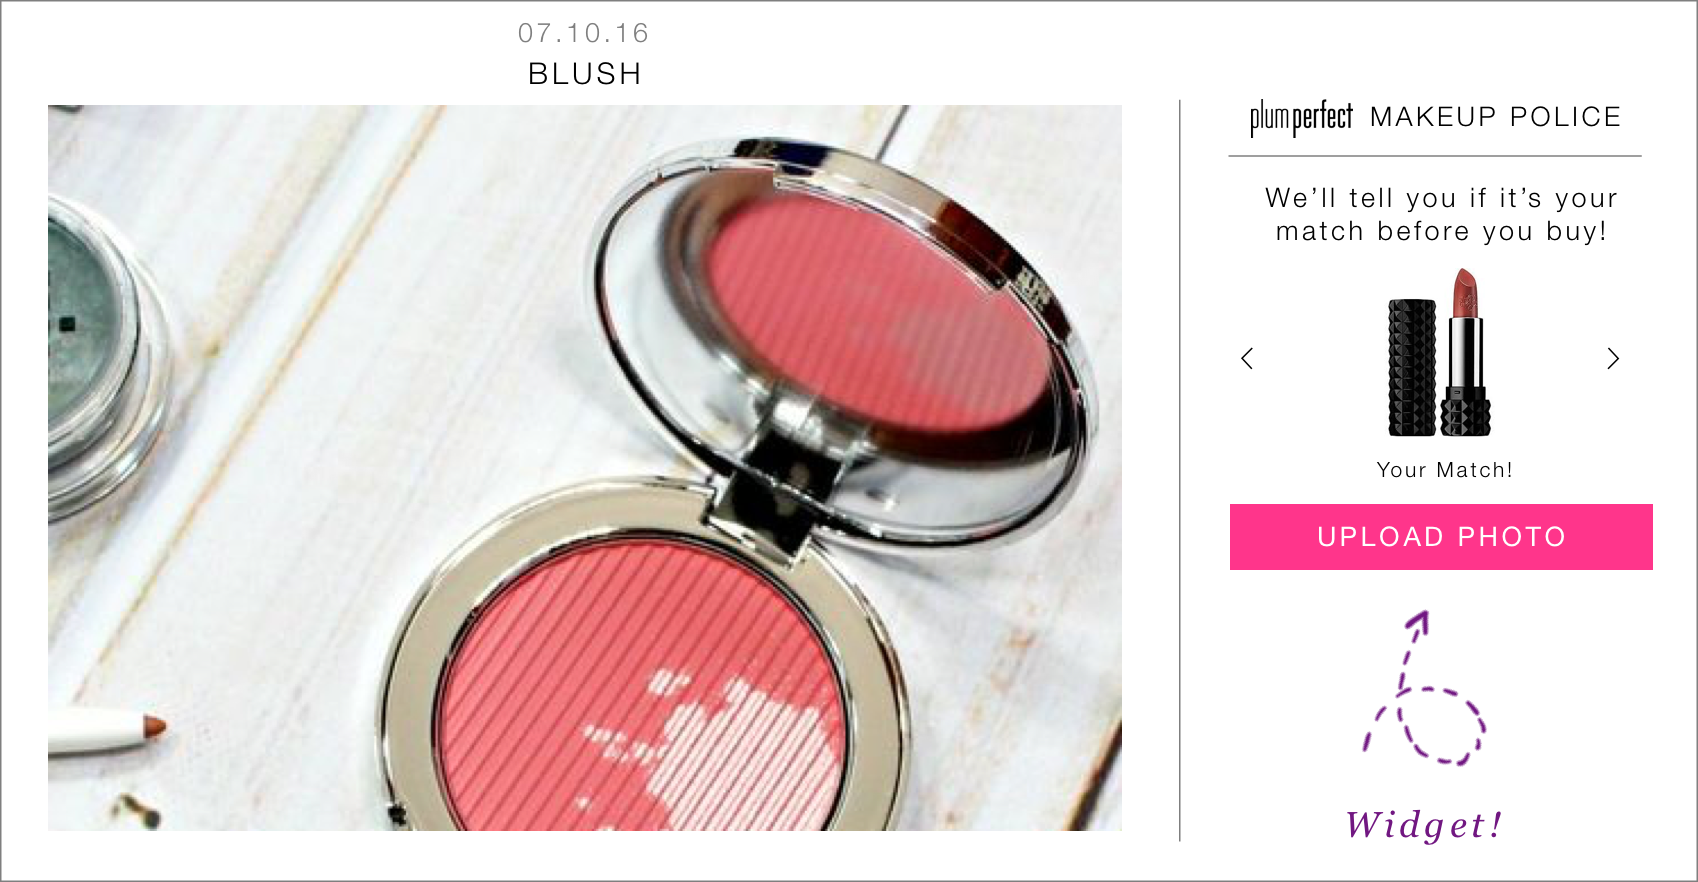
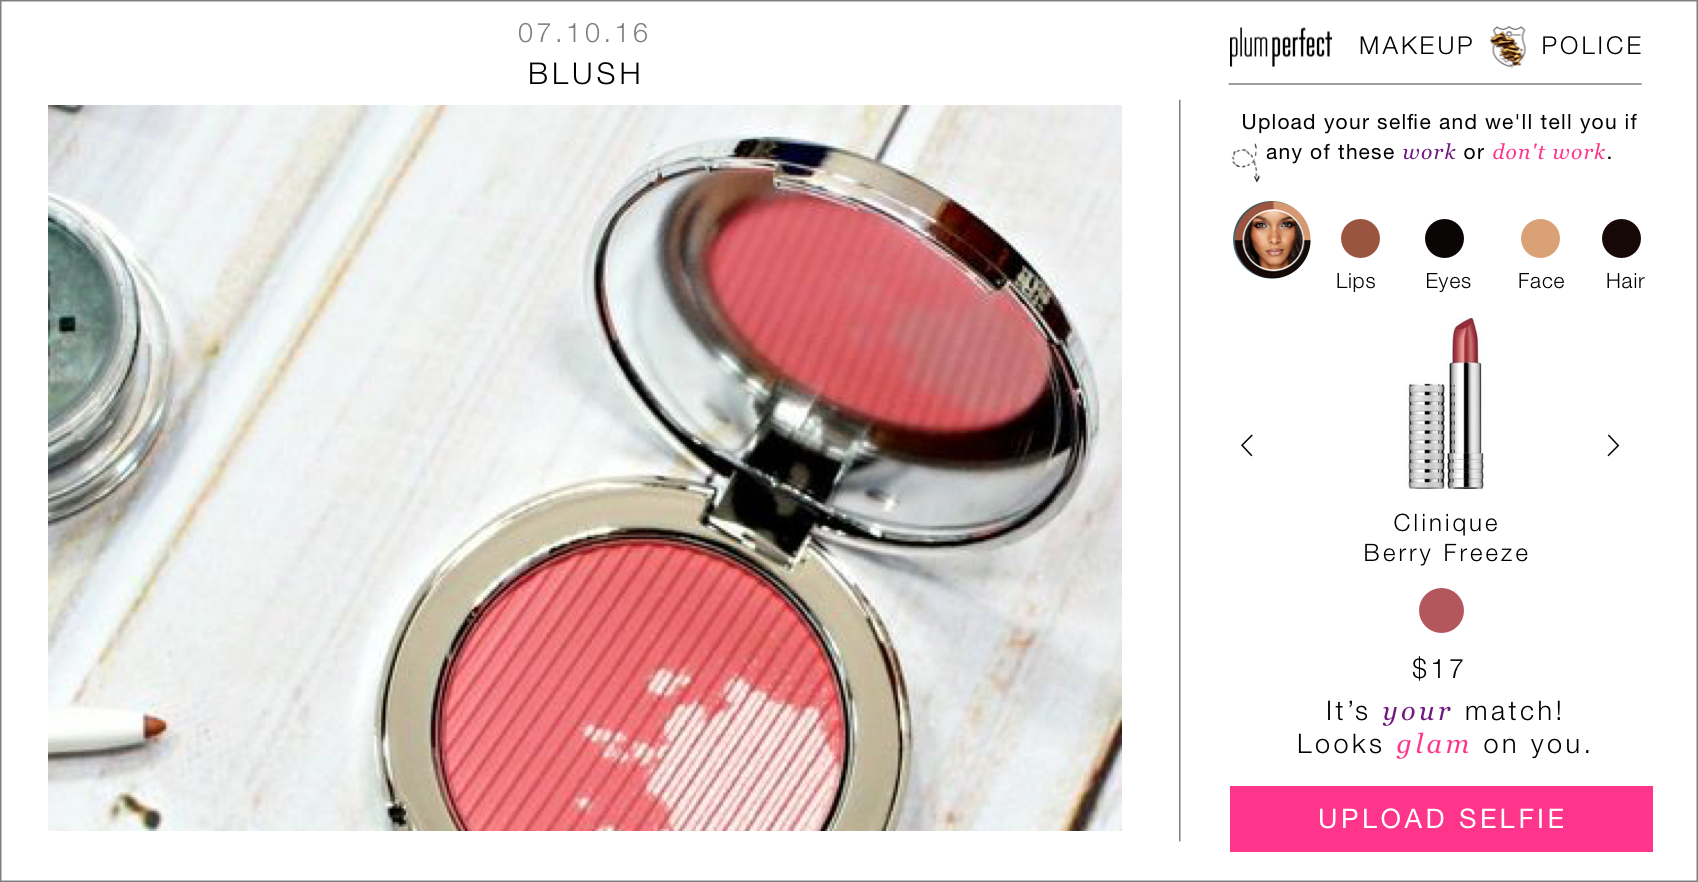
Updates

Changed region(s): [[0.7179, 0.2143, 0.9988, 0.9796], [0.7179, 0.0306, 0.9676, 0.1837]]

diff --git a/Widget/Index.html b/Widget/Index.html
@@ -19,18 +19,20 @@
 
     <!-- Begin page content -->
     <div id="wrap">
-      <div class="col-lg-12 logodiv">
-        <img class="logo" src="img/Logo.png" width="220" height="19">
+      <div class="col-lg-12 col-xs-12 logodiv">
+        <img class="logo" src="img/Logo.png" width="243" height="29">
       </div>
 
-      <div class="col-lg-12 col-xs-12">
-        <p class="matchtext">It's <span class="her">her</span> match, is it <span class="yours">yours?</span> <br>To find out, upload your photo.</p>
+      <div class="col-lg-12 col-xs-12 logodiv2">
+        <!-- <p class="matchtext">Avoid makeup faux pas. We'll tell you if any of these <span class="her">work</span> or <span class="yours">don't work.</span> </p> -->
+        <img class="logo" src="img/Upload.png" width="298" height="53">
       </div>
 
       <div class="row info">
         <div class="col-lg-3 col-xs-4">
           <div class="picture">
           </div>
+          <h1 class="attribute linzie">Linzie</h1>
         </div>
         <div class="col-lg-2 col-xs-2">
           <div class="color1">
@@ -68,19 +70,37 @@
           <div class="item active">
             <a href="#"><img class="image" src="img/Lipstick.png" width="110" height="110"></a>
             <div class="carousel-caption1">
-              <h3>It's your match!</h3>
+              <h3>Brand</h3>
+              <h3>Color Name</h3>
+              <div class="colorname"></div><br>
+              <h3>Price</h3>
+              <br>
+              <h3 class="match">It's not <span class="her">her</span> match!</h3>
+              <h3 class="match">Is it <span class="yours">yours?</span></h3>
             </div>
           </div>
           <div class="item">
             <a href="#"><img class="image" src="img/Lipstick2.png" width="110" height="110"></a>
             <div class="carousel-caption1">
-              <h3>Not your match.</h3>
+              <h3>Brand</h3>
+              <h3>Color Name</h3>
+              <div class="colorname"></div><br>
+              <h3>Price</h3>
+              <br>
+              <h3 class="match">It's <span class="her">her</span> match!</h3>
+              <h3 class="match">Looks <span class="yours">glam</span> on her.</h3>
             </div>
           </div>
           <div class="item">
             <a href="#"><img class="image" src="img/Lipstick3.png" width="110" height="110"></a>
             <div class="carousel-caption1">
-              <h3>It's your match!</h3>
+              <h3>Brand</h3>
+              <h3>Color Name</h3>
+              <div class="colorname"></div><br>
+              <h3>Price</h3>
+              <br>
+              <h3 class="match">It's <span class="her">her</span> match!</h3>
+              <h3 class="match">Looks <span class="yours">glam</span> on her.</h3>
             </div>
           </div>
         </div> <!-- Inner-->
@@ -96,7 +116,7 @@
       </div> <!-- Main Carousel-->
 
             <div class="col-lg-12 col-xs-12 buttondiv">
-              <a href="Upload.html"><button class="btn1"><h1 class="uploadbtn">UPLOAD PHOTO</h1</button></a>
+              <a href="Upload.html"><button class="btn1"><h1 class="uploadbtn">UPLOAD SELFIE</h1</button></a>
             </div>
     </div> <!-- End Wrap -->
 

diff --git a/Widget/Matches.html b/Widget/Matches.html
@@ -20,7 +20,7 @@
     <!-- Begin page content -->
     <div id="wrap">
       <div class="col-lg-12 logodiv">
-        <img class="logo" src="img/Logo.png" width="220" height="19">
+        <img class="logo" src="img/Logo.png" width="243" height="29">
       </div>
 
       <div class="col-lg-12 col-xs-12">
@@ -64,24 +64,39 @@
           <div class="item active">
             <a href="#"><img class="image" src="img/Lipstick.png" width="110" height="110"></a>
             <div class="carousel-caption">
-              <h3>It's your match!</h3>
-              <h3>Looks glam on you.</h3>
+              <h3>Brand</h3>
+              <h3>Color Name</h3>
+              <div class="colorname"></div><br>
+              <h3>Price</h3>
+              <br>
+              <h3 class="match">It's <span class="her">your</span> match!</h3>
+              <h3 class="match">Looks <span class="yours">glam</span> on you.</h3>
               <a href="#"><button class="btn2"><h1 class="uploadbtn">BUY NOW</h1</button></a>
             </div>
           </div>
           <div class="item">
             <a href="#"><img class="image" src="img/Lipstick2.png" width="110" height="110"></a>
             <div class="carousel-caption">
-              <h3>Not your match.</h3>
-              <h3>Keep looking!</h3>
+              <h3>Brand</h3>
+              <h3>Color Name</h3>
+              <div class="colorname"></div><br>
+              <h3>Price</h3>
+              <br>
+              <h3 class="match">It's <span class="her">your</span> match!</h3>
+              <h3 class="match">Looks <span class="yours">glam</span> on you.</h3>
               <a href="#"><button class="btn2"><h1 class="uploadbtn">BUY NOW</h1</button></a>
             </div>
           </div>
           <div class="item">
             <a href="#"><img class="image" src="img/Lipstick3.png" width="110" height="110"></a>
             <div class="carousel-caption">
-              <h3>It's your match!</h3>
-              <h3>Looks glam on you.</h3>
+              <h3>Brand</h3>
+              <h3>Color Name</h3>
+              <div class="colorname"></div><br>
+              <h3>Price</h3>
+              <br>
+              <h3 class="match">It's <span class="her">not your</span> match!</h3>
+              <h3 class="match">Keep Looking!</h3>
               <a href="#"><button class="btn2"><h1 class="uploadbtn">BUY NOW</h1</button></a>
             </div>
           </div>

diff --git a/Widget/stylesheets/index.css b/Widget/stylesheets/index.css
@@ -11,7 +11,7 @@ body {
 
 #wrap {
   width: 300px;
-  height: 410px;
+  height: 530px;
   background-color: white;
   border: solid black 1px;
   margin: auto;
@@ -19,9 +19,15 @@ body {
 
 .logodiv {
   text-align: center;
-  padding: 10px 0px 5px 0px;
+  padding: 5px 0px 0px 0px;
   border-bottom: solid black 1px;
 }
+
+.logodiv2 {
+  text-align: center;
+  padding: 10px 0px 5px 0px;
+}
+
 
 .header {
   font-family: 'Helvetica Neue';
@@ -41,6 +47,12 @@ body {
 
 .buttondiv {
   text-align: center;
+  margin-top: 10px;
+}
+
+.linzie {
+  text-align: center;
+  padding-left: 10px;
 }
 
 .btn1 {
@@ -88,7 +100,7 @@ body {
   font-size: 15px;
   text-shadow: none;
   color: black;
-  visibility: hidden;
+  text-align: center;
 }
 
 .carousel-inner {
@@ -153,9 +165,9 @@ body {
 .matchtext {
   font-family: 'Helvetica Neue';
   font-weight: 300;
-  font-size: 18px;
+  font-size: 15px;
   text-align: center;
-  margin: 20px auto 25px auto;
+  margin: 20px auto 15px auto;
   line-height: 20px;
 }
 
@@ -171,6 +183,13 @@ body {
   color: #FF358B;
 }
 
+.colorname {
+  height: 20px;
+  width: 20px;
+  border-radius: 10px;
+  background-color: black;
+  margin: 5px auto 0px auto;
+}
 
 
 /*UPLOAD*//*UPLOAD*//*UPLOAD*//*UPLOAD*//*UPLOAD*//*UPLOAD*//*UPLOAD*//*UPLOAD*//*UPLOAD*//*UPLOAD*//*UPLOAD*//*UPLOAD*//*UPLOAD*/

diff --git a/Widget/ColorSignature.html b/Widget/ColorSignature.html
@@ -20,7 +20,7 @@
     <!-- Begin page content -->
     <div id="wrap">
       <div class="col-lg-12 logodiv">
-        <img class="logo" src="img/Logo.png" width="220" height="19">
+        <img class="logo" src="img/Logo.png" width="243" height="29">
       </div>
 
       <div class="col-lg-12 col-xs-12">

diff --git a/Widget/Reupload.html b/Widget/Reupload.html
@@ -20,7 +20,7 @@
     <!-- Begin page content -->
     <div id="wrap">
       <div class="col-lg-12 logodiv">
-        <img class="logo" src="img/Logo.png" width="220" height="19">
+        <img class="logo" src="img/Logo.png" width="243" height="29">
       </div>
 
       <div class="col-lg-12">

diff --git a/Widget/SignIn.html b/Widget/SignIn.html
@@ -20,7 +20,7 @@
     <!-- Begin page content -->
     <div id="wrap">
       <div class="col-lg-12 logodiv">
-        <img class="logo" src="img/Logo.png" width="220" height="19">
+        <img class="logo" src="img/Logo.png" width="243" height="29">
       </div>
 
       <div class="col-lg-12">

diff --git a/Widget/Upload.html b/Widget/Upload.html
@@ -20,7 +20,7 @@
     <!-- Begin page content -->
     <div id="wrap">
       <div class="col-lg-12 logodiv">
-        <img class="logo" src="img/Logo.png" width="220" height="19">
+        <img class="logo" src="img/Logo.png" width="243" height="29">
       </div>
 
       <div class="col-lg-12">

diff --git a/Widget/UploadFail.html b/Widget/UploadFail.html
@@ -20,7 +20,7 @@
     <!-- Begin page content -->
     <div id="wrap">
       <div class="col-lg-12 logodiv">
-        <img class="logo" src="img/Logo.png" width="220" height="19">
+        <img class="logo" src="img/Logo.png" width="243" height="29">
       </div>
 
       <div class="col-lg-12">
